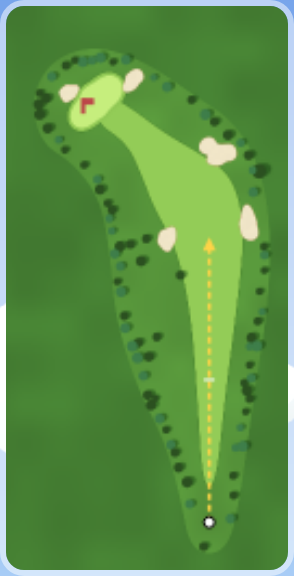
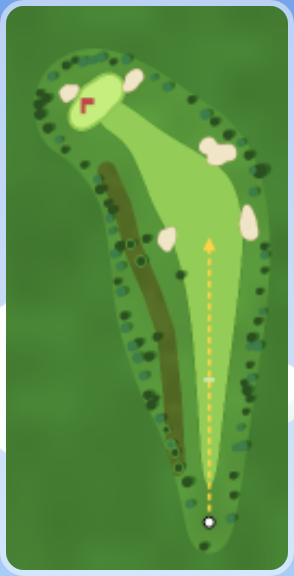
Course: mdw-02 deep rough band on the left (S24, owner); deep-rough test allows Buttercup Meadows
Claude-Session: https://claude.ai/code/session_01Rv6Ng9PW7184S78dK5S125

Changed region(s): [[0.3367, 0.2812, 0.6429, 0.8125]]

diff --git a/tests/meadow.test.js b/tests/meadow.test.js
@@ -146,3 +146,13 @@ test('mdw-06: downhill; at the flag holds the green, a miss left stays dry', () 
   assert.equal(shot(startAt(h), { at: { x: 12, z: -174 } }).surface, 'green');
   assert.notEqual(shot(startAt(h), { at: { x: -30, z: -178 } }).ev, 'penalty');
 });
+
+// S24 deep rough (owner, 2026-11-24): on mdw-02's left, too far from the fairway is a punch-out; the brave gap stays open
+test('mdw-02: a drive pulled well left of the fairway ends in deep rough; the brave gap and the fairway stay clear of it', () => {
+  const h = HOLES['mdw-02'];
+  assert.equal(shot(startAt(h), { at: { x: -50, z: -190 }, club: 'driver', power: 1 }).surface, 'deepRough');
+  assert.equal(shot(startAt(h), { at: { x: -42, z: -250 }, club: 'driver', power: 1 }).surface, 'fairway');
+  for (let z = -40; z >= -240; z -= 10) for (let x = -40; x <= 30; x += 2) if (h.surfaceAt(x, z) === 'deepRough') {
+    assert.ok(Math.hypot(x - -42, z - -250) > 20 || z < -230, `deep rough at (${x}, ${z}) in the brave landing`);
+  }
+});

diff --git a/src/holes/mdw-02.js b/src/holes/mdw-02.js
@@ -42,6 +42,9 @@ export default makeMdwHole({
     { cx: -58, cz: -315, rx: 6, rz: 10, rot: 0.7, wob: 0.1, seed: 5, depth: 1.5 },
     { cx: -107, cz: -306, rx: 8, rz: 6, rot: -0.5, wob: 0.12, seed: 6, depth: 1.5 },
   ],
+  // S24 deep rough (owner): a band along the left of the clearing, beyond a strip of normal rough next to the fairway.
+  // Stray too far left of the fairway (or hook the brave drive) and the next shot is a punch-out.
+  deepRoughs: [{ pts: [{ x: -25, z: -40 }, { x: -28, z: -90 }, { x: -33, z: -135 }, { x: -44, z: -165 }, { x: -58, z: -195 }, { x: -66, z: -225 }, { x: -78, z: -250 }], w: 7 }],
   ob: { x0: -140, x1: 52, z0: -348, z1: 26 },
   // trees in play: clumps along the clearing's edge
   forest: { size: [1.0, 1.6], seed: 102, keep: 5, edgeGap: [5, 15], inset: [3, 9], clump: 3, back: false, clear: [{ pts: [{ x: 0, z: 0 }, { x: -45, z: -250 }], w: 9 }] },

diff --git a/tests/deep-rough.test.js b/tests/deep-rough.test.js
@@ -159,8 +159,8 @@ test('S24: the hole data format (deepRoughs: blobs and strips), painted over fai
   for (const bad of [{}, { pts: [{ x: 0, z: 0 }] }, { pts: [{ x: 0, z: 0 }, { x: 1, z: 1 }], w: -1 }, { cx: 0, cz: 0, rx: 0, rz: 3 }]) {
     assert.throws(() => makeMtnHole({ ...spec, deepRoughs: [bad] }).surfaceAt(0, 0), /hole "x-dr": deepRoughs\[0\] must be a blob/);
   }
-  // no real hole uses it yet
-  for (const hole of Object.values(HOLES)) assert.ok(!(hole.features.deepRoughs ?? []).length, hole.id);
+  // the first real use is Buttercup Meadows (mdw-02, owner 2026-11-24); no other course uses it yet
+  for (const hole of Object.values(HOLES)) if (!hole.id.startsWith('mdw-')) assert.ok(!(hole.features.deepRoughs ?? []).length, hole.id);
 });
 
 test('S24: validateHole accepts deep rough, its surfaceOverrides and a scenario on it; the dev practice spot', () => {
